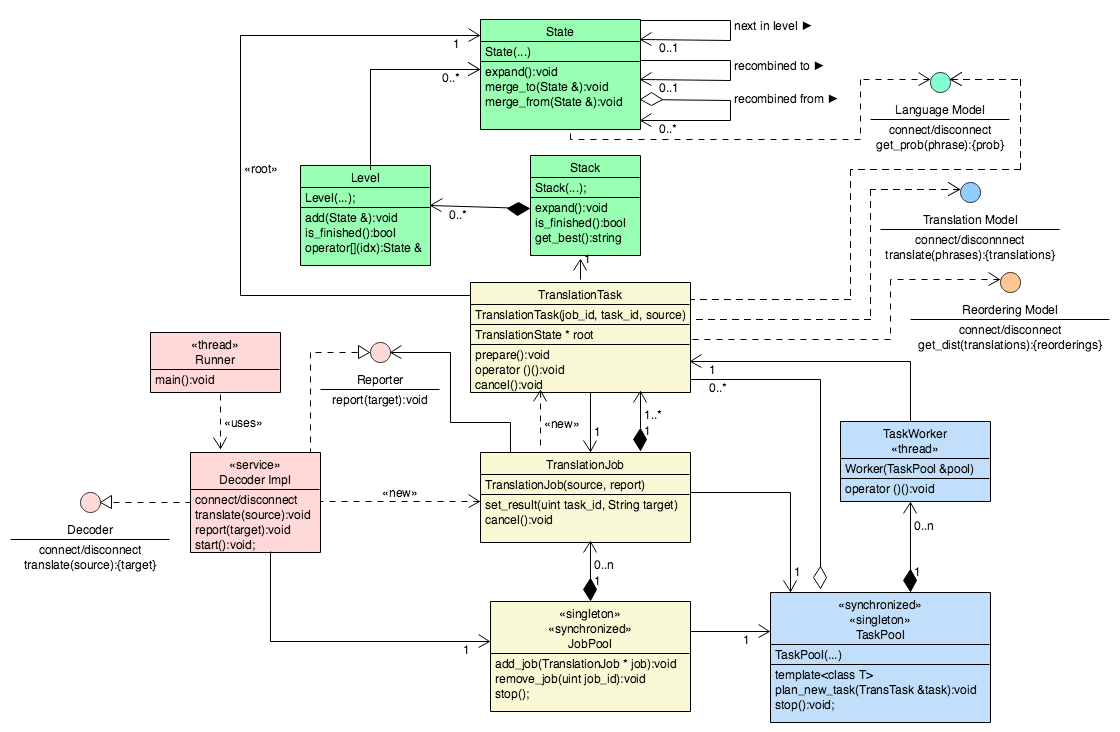
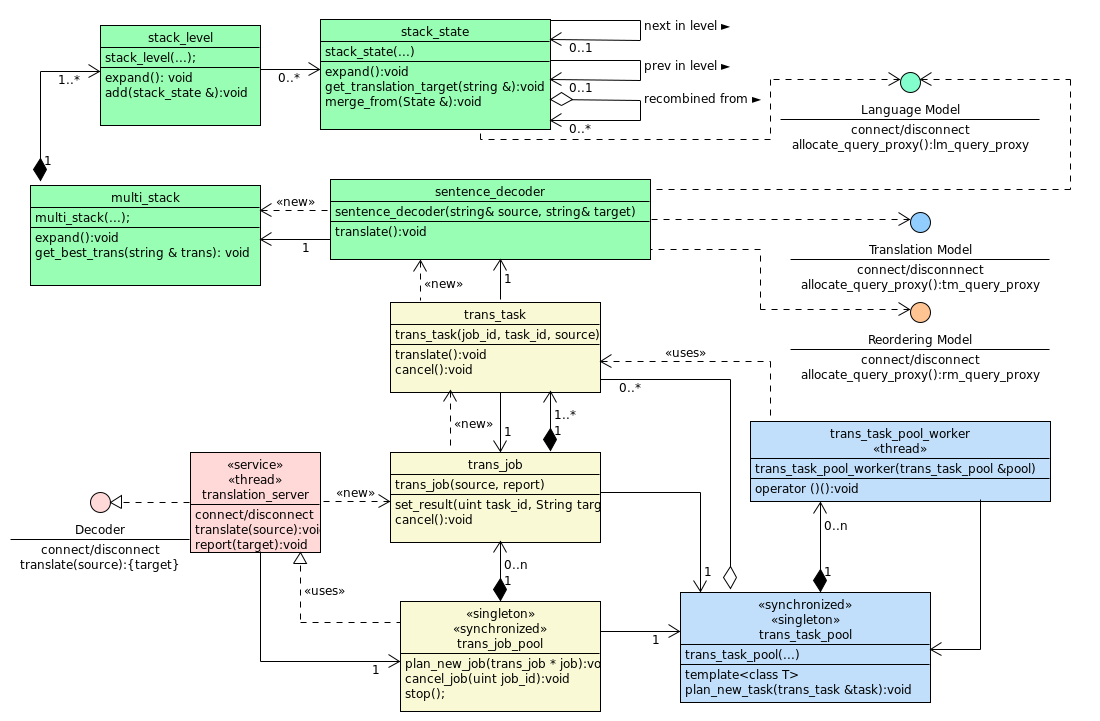
Updating the design diagrams with. making them closer to the current code base. Improving the corresponding text in the README.md.

diff --git a/README.md b/README.md
@@ -479,13 +479,13 @@ The class diagram of the decoder component is given below. The decoder has a mul
 
 Let us consider the main classes from the diagram:
 
-The _Decoder Impl_ is responsible for: receiving the Web socket session open and close requests; parsing the translation requests into translation jobs; scheduling the translation jobs to the _JobPool_; receiving the finished job notification; and sending the finished job reply to the client.
+The _translation\_server_ is responsible for: receiving the Web socket session open and close requests; parsing the translation requests into translation jobs; scheduling the translation jobs to the _trans\_job\_pool; receiving the finished job notification; and sending the finished job reply to the client.
 
-The _JobPool_ stores all the scheduled translation jobs and splits them into the translation tasks scheduled by the _TaskPool_. Once all the translation tasks of a translation job are finished the JobPool notifies the _Decoder Impl_.
+The _trans\_job\_pool_ stores all the scheduled translation jobs and splits them into the translation tasks scheduled by the _trans\_task\_pool_. Once all the translation tasks of a translation job are finished the _trans\_job_ notifies the _trans\_job\_pool and that, in its turn notifies the _translation\_server_.
 
-The _TaskPool_ contains the queue of scheduled translation tasks and a limited number of translation worker threads to perform translations. In essence this is a thread pool entity with a queue of thread tasks.
+The _trans\_task\_pool_ contains the queue of scheduled translation tasks and a limited number of translation worker threads to perform translations. In essence this is a thread pool entity with a queue of thread tasks.
 
-The _TranslationTask_ is a sentence translation entity, its responsibility is to retrieve the preliminary information from the Language, Translation, and Reordering models and then to perform translations using the translation multi-_Stack_, and instances of _Level_ and _State_ classes. The latter represents the translation expansion hypothesis. At present the translation algorithm supports:
+The _trans\_task_ is a simple wrapper around the sentence translation entity _sentence\_decoder_. The latter's responsibility is to retrieve the preliminary information from the Language, Translation, and Reordering models and then to perform translations using the _multi\_tack_ class, and instances of _stack\_level_ and _stack\_state_ classes. The latter represents the translation expansion hypothesis. At present the translation algorithm supports:
 
 * Beam search 
 * Future cost estimates
@@ -499,7 +499,7 @@ Let us now consider the LM implementation class/package diagram on the figure be
 
 ![The LM component Image](./docs/images/design/lm_component.png "LM component")
 
-The design of the Language model has not changed since the split off from the [Back Off Language Model SMT](https://github.com/ivan-zapreev/Back-Off-Language-Model-SMT) project. So for more details we refer to the [Implementation Details section](https://github.com/ivan-zapreev/Back-Off-Language-Model-SMT/blob/master/README.md#implementation-details) of the README.md thereof. Please note that, recently the project class, file and folder names have changed slightly to become more uniform across the LM, TM, and RM implementations. The latter can be a minor source of confusion when relating this diagram back to the source code. Still, the overall conceptual design is remained intact and is reflected by the diagram in a perfect way.
+The design of the Language model has not changed much since the split off from the [Back Off Language Model SMT](https://github.com/ivan-zapreev/Back-Off-Language-Model-SMT) project. So for more details we still refer to the [Implementation Details section](https://github.com/ivan-zapreev/Back-Off-Language-Model-SMT/blob/master/README.md#implementation-details) of the README.md thereof. For the most recent information on the LM component design please read the project's [Code documentation](#code-documentation).
 
 ##Software details
 In this section we provide some additional details on the structure of the provided software. We shall begin with the common packages and then move on to the binary specific ones. The discussion will not go into details and will be kept at the level of source file folder, explaining their content.
